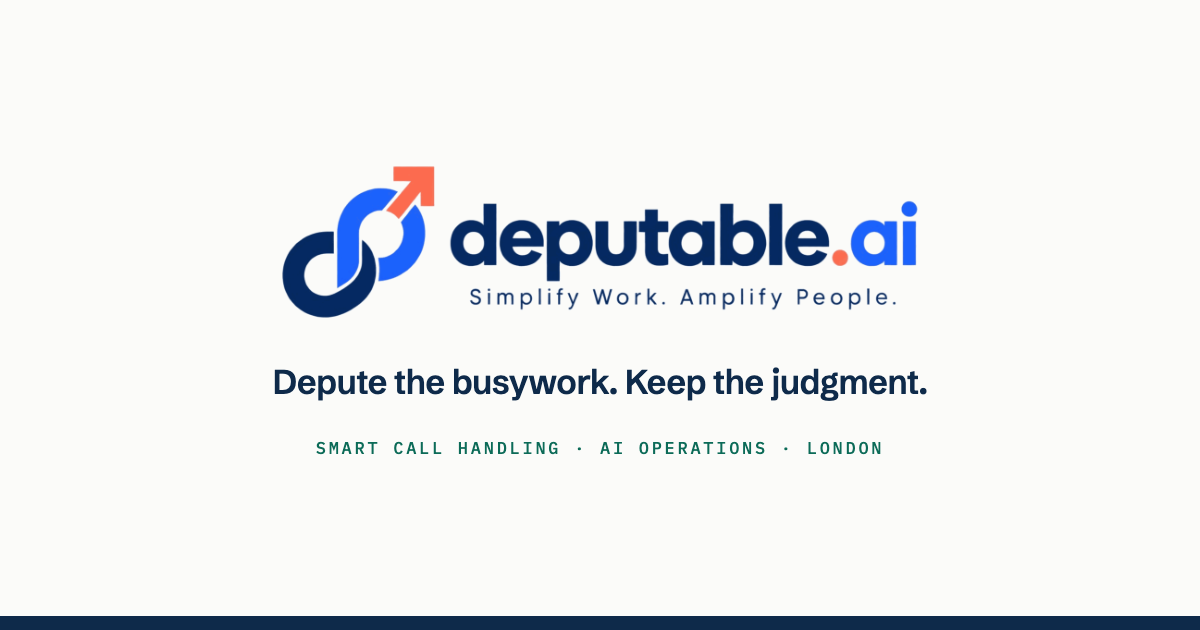
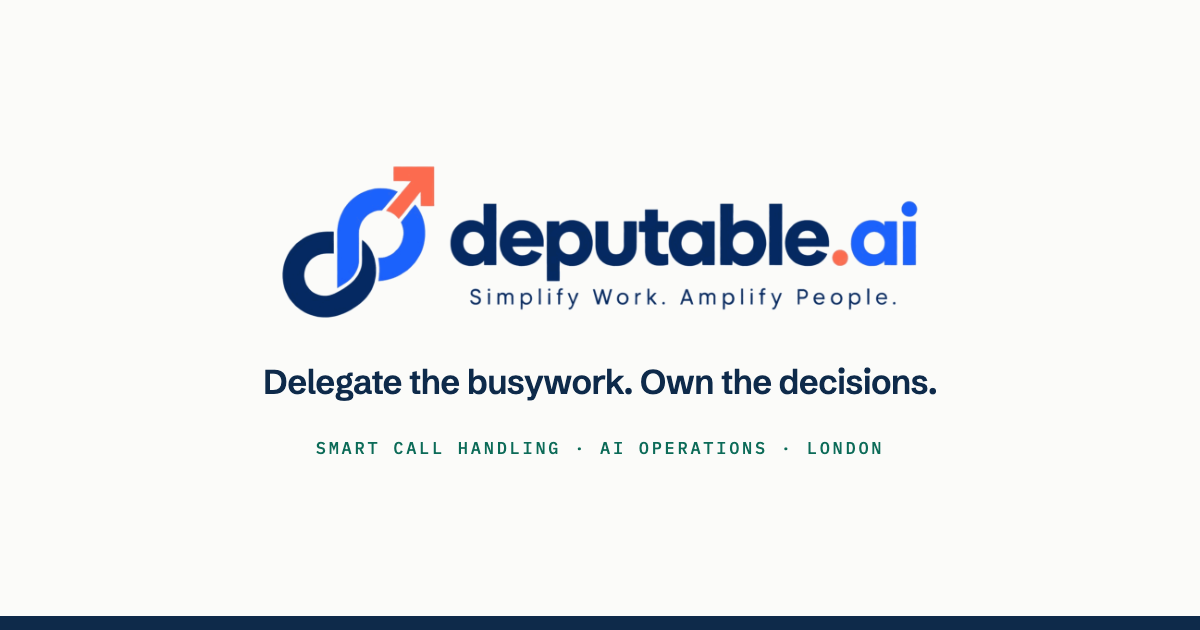
Hero: "Delegate the busywork. Own the decisions." (#13)
New headline per Prashant (reads even more directly against the About
page's dictionary definition — deputable: fit to be delegated). Updated
everywhere it appears: hero spans, og:image:alt, the og-image itself
(recaptured), and the type-scaling divisor for the longer first line
(verified two lines with zero overflow at 375).

Changed region(s): [[0.2158, 0.573, 0.7708, 0.6333]]

diff --git a/trust.html b/trust.html
@@ -14,7 +14,7 @@
 <meta property="og:image" content="https://deputable.ai/assets/og-image.png">
 <meta property="og:image:width" content="1200">
 <meta property="og:image:height" content="630">
-<meta property="og:image:alt" content="Deputable AI — Depute the busywork. Keep the judgment.">
+<meta property="og:image:alt" content="Deputable AI — Delegate the busywork. Own the decisions.">
 <meta name="twitter:card" content="summary_large_image">
 <meta name="twitter:title" content="Trust & Security — Your Data Is Your Own | Deputable AI">
 <meta name="twitter:description" content="Where your data is processed, who can act on it, and what happens when the model gets it wrong — the questions IT and procurement ask first, answered plainly.">
@@ -25,7 +25,7 @@
 <link rel="preconnect" href="https://fonts.googleapis.com">
 <link rel="preconnect" href="https://fonts.gstatic.com" crossorigin>
 <link href="https://fonts.googleapis.com/css2?family=Schibsted+Grotesk:wght@400;500;600;700&family=IBM+Plex+Mono:wght@400;500&display=swap" rel="stylesheet">
-<link rel="stylesheet" href="css/style.css?v=5d7d318e">
+<link rel="stylesheet" href="css/style.css?v=4d409f6e">
 <script type="application/ld+json">{"@context": "https://schema.org", "@type": "Organization", "name": "Deputable AI", "url": "https://deputable.ai/", "logo": "https://deputable.ai/assets/deputable-logo.png", "email": "hello@deputable.ai", "slogan": "Simplify Work. Amplify People.", "address": {"@type": "PostalAddress", "addressLocality": "London", "addressCountry": "GB"}, "founder": [{"@type": "Person", "name": "Rohit Sinha", "sameAs": "https://www.linkedin.com/in/rohit-sinha-b6792715/"}, {"@type": "Person", "name": "Prashant Tiwari", "sameAs": "https://www.linkedin.com/in/prashanttiwari247/"}]}</script>
 <script type="application/ld+json">{"@context": "https://schema.org", "@type": "FAQPage", "mainEntity": [{"@type": "Question", "name": "Where is our data processed?", "acceptedAnswer": {"@type": "Answer", "text": "In the UK or EU by default. Where a workflow requires a model hosted elsewhere, we say so in writing before deployment and you decide whether to proceed."}}, {"@type": "Question", "name": "Do you train models on our data?", "acceptedAnswer": {"@type": "Answer", "text": "No. Client data is used to serve that client only. We contract with providers on terms that exclude training on submitted data, and we can show you those terms."}}, {"@type": "Question", "name": "Who can the system act on behalf of?", "acceptedAnswer": {"@type": "Answer", "text": "Nothing that touches a customer, a payment or a record of account is sent without a named person approving it, unless you explicitly ask for an unattended step and accept that in writing."}}, {"@type": "Question", "name": "What happens if the model gets it wrong?", "acceptedAnswer": {"@type": "Answer", "text": "Every workflow logs its inputs, outputs and decisions so an error can be traced and reversed. Pilots run alongside the existing process precisely so failures surface before anyone depends on the output."}}, {"@type": "Question", "name": "What if we end the engagement?", "acceptedAnswer": {"@type": "Answer", "text": "You keep the workflow, the documentation and the accounts it runs on. We do not hold your integrations hostage, and there is no proprietary layer you have to keep paying us for."}}, {"@type": "Question", "name": "Which other companies touch our data?", "acceptedAnswer": {"@type": "Answer", "text": "The third-party services we use to run your workflow \u2014 for example the telephony provider and the model provider. We keep a current, named list of them for every client, with where each one processes data, and we work to UK GDPR throughout. Our data-processing terms are shared on request."}}]}</script>
 </head>

diff --git a/index.html b/index.html
@@ -14,7 +14,7 @@
 <meta property="og:image" content="https://deputable.ai/assets/og-image.png">
 <meta property="og:image:width" content="1200">
 <meta property="og:image:height" content="630">
-<meta property="og:image:alt" content="Deputable AI — Depute the busywork. Keep the judgment.">
+<meta property="og:image:alt" content="Deputable AI — Delegate the busywork. Own the decisions.">
 <meta name="twitter:card" content="summary_large_image">
 <meta name="twitter:title" content="Deputable AI — Smart Call Handling & AI Operations for UK Businesses">
 <meta name="twitter:description" content="AI that answers your phone out of hours, catches overflow calls, and runs routine workflows — with a person in charge of every decision that matters. Built in London.">
@@ -25,7 +25,7 @@
 <link rel="preconnect" href="https://fonts.googleapis.com">
 <link rel="preconnect" href="https://fonts.gstatic.com" crossorigin>
 <link href="https://fonts.googleapis.com/css2?family=Schibsted+Grotesk:wght@400;500;600;700&family=IBM+Plex+Mono:wght@400;500&display=swap" rel="stylesheet">
-<link rel="stylesheet" href="css/style.css?v=5d7d318e">
+<link rel="stylesheet" href="css/style.css?v=4d409f6e">
 <script type="application/ld+json">{"@context": "https://schema.org", "@type": "Organization", "name": "Deputable AI", "url": "https://deputable.ai/", "logo": "https://deputable.ai/assets/deputable-logo.png", "email": "hello@deputable.ai", "slogan": "Simplify Work. Amplify People.", "address": {"@type": "PostalAddress", "addressLocality": "London", "addressCountry": "GB"}, "founder": [{"@type": "Person", "name": "Rohit Sinha", "sameAs": "https://www.linkedin.com/in/rohit-sinha-b6792715/"}, {"@type": "Person", "name": "Prashant Tiwari", "sameAs": "https://www.linkedin.com/in/prashanttiwari247/"}]}</script>
 </head>
 <body>
@@ -51,7 +51,7 @@
 <section class="hero">
   <div class="wrap hero-center">
     <div class="eyebrow">Simplify work &middot; Amplify people</div>
-    <h1 class="hero-title"><span>Depute the busywork.</span> <span>Keep the judgment.</span></h1>
+    <h1 class="hero-title"><span>Delegate the busywork.</span> <span>Own the decisions.</span></h1>
     <p class="hero-sub">We build AI that takes on the work you'd hand to a trusted deputy — answering the phone after hours, picking up overflow calls while your team is busy, running the routine steps of scheduling, stock and paperwork. Turn-key, fitted to the systems you already run, with a person in charge of everything that matters.</p>
     <div class="hero-ctas">
       <a class="btn btn-primary" href="contact.html">Book a Demo Call</a>

diff --git a/services.html b/services.html
@@ -14,7 +14,7 @@
 <meta property="og:image" content="https://deputable.ai/assets/og-image.png">
 <meta property="og:image:width" content="1200">
 <meta property="og:image:height" content="630">
-<meta property="og:image:alt" content="Deputable AI — Depute the busywork. Keep the judgment.">
+<meta property="og:image:alt" content="Deputable AI — Delegate the busywork. Own the decisions.">
 <meta name="twitter:card" content="summary_large_image">
 <meta name="twitter:title" content="Services — Smart Call Handling, Website Chat & Workflow Automation | Deputable AI">
 <meta name="twitter:description" content="Three modes of Smart Call Handling, website chat on the same engine, bespoke workflow automation and a two-week AI readiness assessment. Nothing on this page is a roadmap.">
@@ -25,7 +25,7 @@
 <link rel="preconnect" href="https://fonts.googleapis.com">
 <link rel="preconnect" href="https://fonts.gstatic.com" crossorigin>
 <link href="https://fonts.googleapis.com/css2?family=Schibsted+Grotesk:wght@400;500;600;700&family=IBM+Plex+Mono:wght@400;500&display=swap" rel="stylesheet">
-<link rel="stylesheet" href="css/style.css?v=5d7d318e">
+<link rel="stylesheet" href="css/style.css?v=4d409f6e">
 <script type="application/ld+json">{"@context": "https://schema.org", "@type": "Organization", "name": "Deputable AI", "url": "https://deputable.ai/", "logo": "https://deputable.ai/assets/deputable-logo.png", "email": "hello@deputable.ai", "slogan": "Simplify Work. Amplify People.", "address": {"@type": "PostalAddress", "addressLocality": "London", "addressCountry": "GB"}, "founder": [{"@type": "Person", "name": "Rohit Sinha", "sameAs": "https://www.linkedin.com/in/rohit-sinha-b6792715/"}, {"@type": "Person", "name": "Prashant Tiwari", "sameAs": "https://www.linkedin.com/in/prashanttiwari247/"}]}</script>
 </head>
 <body>

diff --git a/how-it-works.html b/how-it-works.html
@@ -14,7 +14,7 @@
 <meta property="og:image" content="https://deputable.ai/assets/og-image.png">
 <meta property="og:image:width" content="1200">
 <meta property="og:image:height" content="630">
-<meta property="og:image:alt" content="Deputable AI — Depute the busywork. Keep the judgment.">
+<meta property="og:image:alt" content="Deputable AI — Delegate the busywork. Own the decisions.">
 <meta name="twitter:card" content="summary_large_image">
 <meta name="twitter:title" content="How It Works — Eight Weeks to Production | Deputable AI">
 <meta name="twitter:description" content="Five steps: demo call, assessment, build and pilot, handover, optional ongoing support. A decision point at every stage — and you keep everything we deliver.">
@@ -25,7 +25,7 @@
 <link rel="preconnect" href="https://fonts.googleapis.com">
 <link rel="preconnect" href="https://fonts.gstatic.com" crossorigin>
 <link href="https://fonts.googleapis.com/css2?family=Schibsted+Grotesk:wght@400;500;600;700&family=IBM+Plex+Mono:wght@400;500&display=swap" rel="stylesheet">
-<link rel="stylesheet" href="css/style.css?v=5d7d318e">
+<link rel="stylesheet" href="css/style.css?v=4d409f6e">
 <script type="application/ld+json">{"@context": "https://schema.org", "@type": "Organization", "name": "Deputable AI", "url": "https://deputable.ai/", "logo": "https://deputable.ai/assets/deputable-logo.png", "email": "hello@deputable.ai", "slogan": "Simplify Work. Amplify People.", "address": {"@type": "PostalAddress", "addressLocality": "London", "addressCountry": "GB"}, "founder": [{"@type": "Person", "name": "Rohit Sinha", "sameAs": "https://www.linkedin.com/in/rohit-sinha-b6792715/"}, {"@type": "Person", "name": "Prashant Tiwari", "sameAs": "https://www.linkedin.com/in/prashanttiwari247/"}]}</script>
 </head>
 <body>

diff --git a/about.html b/about.html
@@ -14,7 +14,7 @@
 <meta property="og:image" content="https://deputable.ai/assets/og-image.png">
 <meta property="og:image:width" content="1200">
 <meta property="og:image:height" content="630">
-<meta property="og:image:alt" content="Deputable AI — Depute the busywork. Keep the judgment.">
+<meta property="og:image:alt" content="Deputable AI — Delegate the busywork. Own the decisions.">
 <meta name="twitter:card" content="summary_large_image">
 <meta name="twitter:title" content="About — Why We're Called Deputable | Deputable AI">
 <meta name="twitter:description" content="Deputable: what you can safely hand to an AI, and what should stay with people. The thinking behind the name, and the founders behind the company.">
@@ -25,7 +25,7 @@
 <link rel="preconnect" href="https://fonts.googleapis.com">
 <link rel="preconnect" href="https://fonts.gstatic.com" crossorigin>
 <link href="https://fonts.googleapis.com/css2?family=Schibsted+Grotesk:wght@400;500;600;700&family=IBM+Plex+Mono:wght@400;500&display=swap" rel="stylesheet">
-<link rel="stylesheet" href="css/style.css?v=5d7d318e">
+<link rel="stylesheet" href="css/style.css?v=4d409f6e">
 <script type="application/ld+json">{"@context": "https://schema.org", "@type": "Organization", "name": "Deputable AI", "url": "https://deputable.ai/", "logo": "https://deputable.ai/assets/deputable-logo.png", "email": "hello@deputable.ai", "slogan": "Simplify Work. Amplify People.", "address": {"@type": "PostalAddress", "addressLocality": "London", "addressCountry": "GB"}, "founder": [{"@type": "Person", "name": "Rohit Sinha", "sameAs": "https://www.linkedin.com/in/rohit-sinha-b6792715/"}, {"@type": "Person", "name": "Prashant Tiwari", "sameAs": "https://www.linkedin.com/in/prashanttiwari247/"}]}</script>
 </head>
 <body>

diff --git a/contact.html b/contact.html
@@ -14,7 +14,7 @@
 <meta property="og:image" content="https://deputable.ai/assets/og-image.png">
 <meta property="og:image:width" content="1200">
 <meta property="og:image:height" content="630">
-<meta property="og:image:alt" content="Deputable AI — Depute the busywork. Keep the judgment.">
+<meta property="og:image:alt" content="Deputable AI — Delegate the busywork. Own the decisions.">
 <meta name="twitter:card" content="summary_large_image">
 <meta name="twitter:title" content="Book a Demo Call | Deputable AI">
 <meta name="twitter:description" content="Pick a 45-minute slot and tell us the process that wastes the most time. No deck, no pitch — we arrive having read what you wrote.">
@@ -25,7 +25,7 @@
 <link rel="preconnect" href="https://fonts.googleapis.com">
 <link rel="preconnect" href="https://fonts.gstatic.com" crossorigin>
 <link href="https://fonts.googleapis.com/css2?family=Schibsted+Grotesk:wght@400;500;600;700&family=IBM+Plex+Mono:wght@400;500&display=swap" rel="stylesheet">
-<link rel="stylesheet" href="css/style.css?v=5d7d318e">
+<link rel="stylesheet" href="css/style.css?v=4d409f6e">
 <script type="application/ld+json">{"@context": "https://schema.org", "@type": "Organization", "name": "Deputable AI", "url": "https://deputable.ai/", "logo": "https://deputable.ai/assets/deputable-logo.png", "email": "hello@deputable.ai", "slogan": "Simplify Work. Amplify People.", "address": {"@type": "PostalAddress", "addressLocality": "London", "addressCountry": "GB"}, "founder": [{"@type": "Person", "name": "Rohit Sinha", "sameAs": "https://www.linkedin.com/in/rohit-sinha-b6792715/"}, {"@type": "Person", "name": "Prashant Tiwari", "sameAs": "https://www.linkedin.com/in/prashanttiwari247/"}]}</script>
 </head>
 <body>

diff --git a/privacy.html b/privacy.html
@@ -14,7 +14,7 @@
 <meta property="og:image" content="https://deputable.ai/assets/og-image.png">
 <meta property="og:image:width" content="1200">
 <meta property="og:image:height" content="630">
-<meta property="og:image:alt" content="Deputable AI — Depute the busywork. Keep the judgment.">
+<meta property="og:image:alt" content="Deputable AI — Delegate the busywork. Own the decisions.">
 <meta name="twitter:card" content="summary_large_image">
 <meta name="twitter:title" content="Privacy Notice | Deputable AI">
 <meta name="twitter:description" content="What the deputable.ai website collects, why, and your rights under UK GDPR — in plain English.">
@@ -25,7 +25,7 @@
 <link rel="preconnect" href="https://fonts.googleapis.com">
 <link rel="preconnect" href="https://fonts.gstatic.com" crossorigin>
 <link href="https://fonts.googleapis.com/css2?family=Schibsted+Grotesk:wght@400;500;600;700&family=IBM+Plex+Mono:wght@400;500&display=swap" rel="stylesheet">
-<link rel="stylesheet" href="css/style.css?v=5d7d318e">
+<link rel="stylesheet" href="css/style.css?v=4d409f6e">
 <script type="application/ld+json">{"@context": "https://schema.org", "@type": "Organization", "name": "Deputable AI", "url": "https://deputable.ai/", "logo": "https://deputable.ai/assets/deputable-logo.png", "email": "hello@deputable.ai", "slogan": "Simplify Work. Amplify People.", "address": {"@type": "PostalAddress", "addressLocality": "London", "addressCountry": "GB"}, "founder": [{"@type": "Person", "name": "Rohit Sinha", "sameAs": "https://www.linkedin.com/in/rohit-sinha-b6792715/"}, {"@type": "Person", "name": "Prashant Tiwari", "sameAs": "https://www.linkedin.com/in/prashanttiwari247/"}]}</script>
 </head>
 <body>

diff --git a/css/style.css b/css/style.css
@@ -138,8 +138,8 @@ p{ margin:0; }
 .hero-center{ padding:104px 32px 96px; text-align:center; }
 /* Exactly two lines on every device: each sentence is a non-wrapping
    block, and the type size tracks the viewport so the longer line
-   ("Depute the busywork.", ~11em) always fits inside the padding. */
-.hero-title{ margin-bottom:24px; font-size:clamp(20px, calc((100vw - 64px) / 11), 64px); }
+   ("Delegate the busywork.", ~12.2em) always fits inside the padding. */
+.hero-title{ margin-bottom:24px; font-size:clamp(20px, calc((100vw - 64px) / 12.4), 62px); }
 .hero-title span{ display:block; white-space:nowrap; }
 .hero-sub{ font-size:20px; line-height:1.55; color:var(--muted-2); margin:0 auto 36px; max-width:36em; }
 .hero-ctas{ display:flex; align-items:center; justify-content:center; gap:14px; flex-wrap:wrap; }

diff --git a/scripts/og-template.html b/scripts/og-template.html
@@ -37,7 +37,7 @@
 </head>
 <body>
   <img class="logo" src="../assets/deputable-logo.png" alt="">
-  <div class="line">Depute the busywork. Keep the judgment.</div>
+  <div class="line">Delegate the busywork. Own the decisions.</div>
   <div class="kicker">Smart Call Handling &middot; AI Operations &middot; London</div>
 </body>
 </html>

diff --git a/scripts/generate_site.py b/scripts/generate_site.py
@@ -89,7 +89,7 @@ def head(title, desc, active_id, filename, relpath_prefix="", extra_head=""):
 <meta property="og:image" content="{BASE_URL}assets/og-image.png">
 <meta property="og:image:width" content="1200">
 <meta property="og:image:height" content="630">
-<meta property="og:image:alt" content="Deputable AI — Depute the busywork. Keep the judgment.">
+<meta property="og:image:alt" content="Deputable AI — Delegate the busywork. Own the decisions.">
 <meta name="twitter:card" content="summary_large_image">
 <meta name="twitter:title" content="{title}">
 <meta name="twitter:description" content="{desc}">
@@ -316,7 +316,7 @@ home_body = f"""
 <section class="hero">
   <div class="wrap hero-center">
     <div class="eyebrow">Simplify work &middot; Amplify people</div>
-    <h1 class="hero-title"><span>Depute the busywork.</span> <span>Keep the judgment.</span></h1>
+    <h1 class="hero-title"><span>Delegate the busywork.</span> <span>Own the decisions.</span></h1>
     <p class="hero-sub">We build AI that takes on the work you'd hand to a trusted deputy — answering the phone after hours, picking up overflow calls while your team is busy, running the routine steps of scheduling, stock and paperwork. Turn-key, fitted to the systems you already run, with a person in charge of everything that matters.</p>
     <div class="hero-ctas">
       <a class="btn btn-primary" href="contact.html">Book a Demo Call</a>
